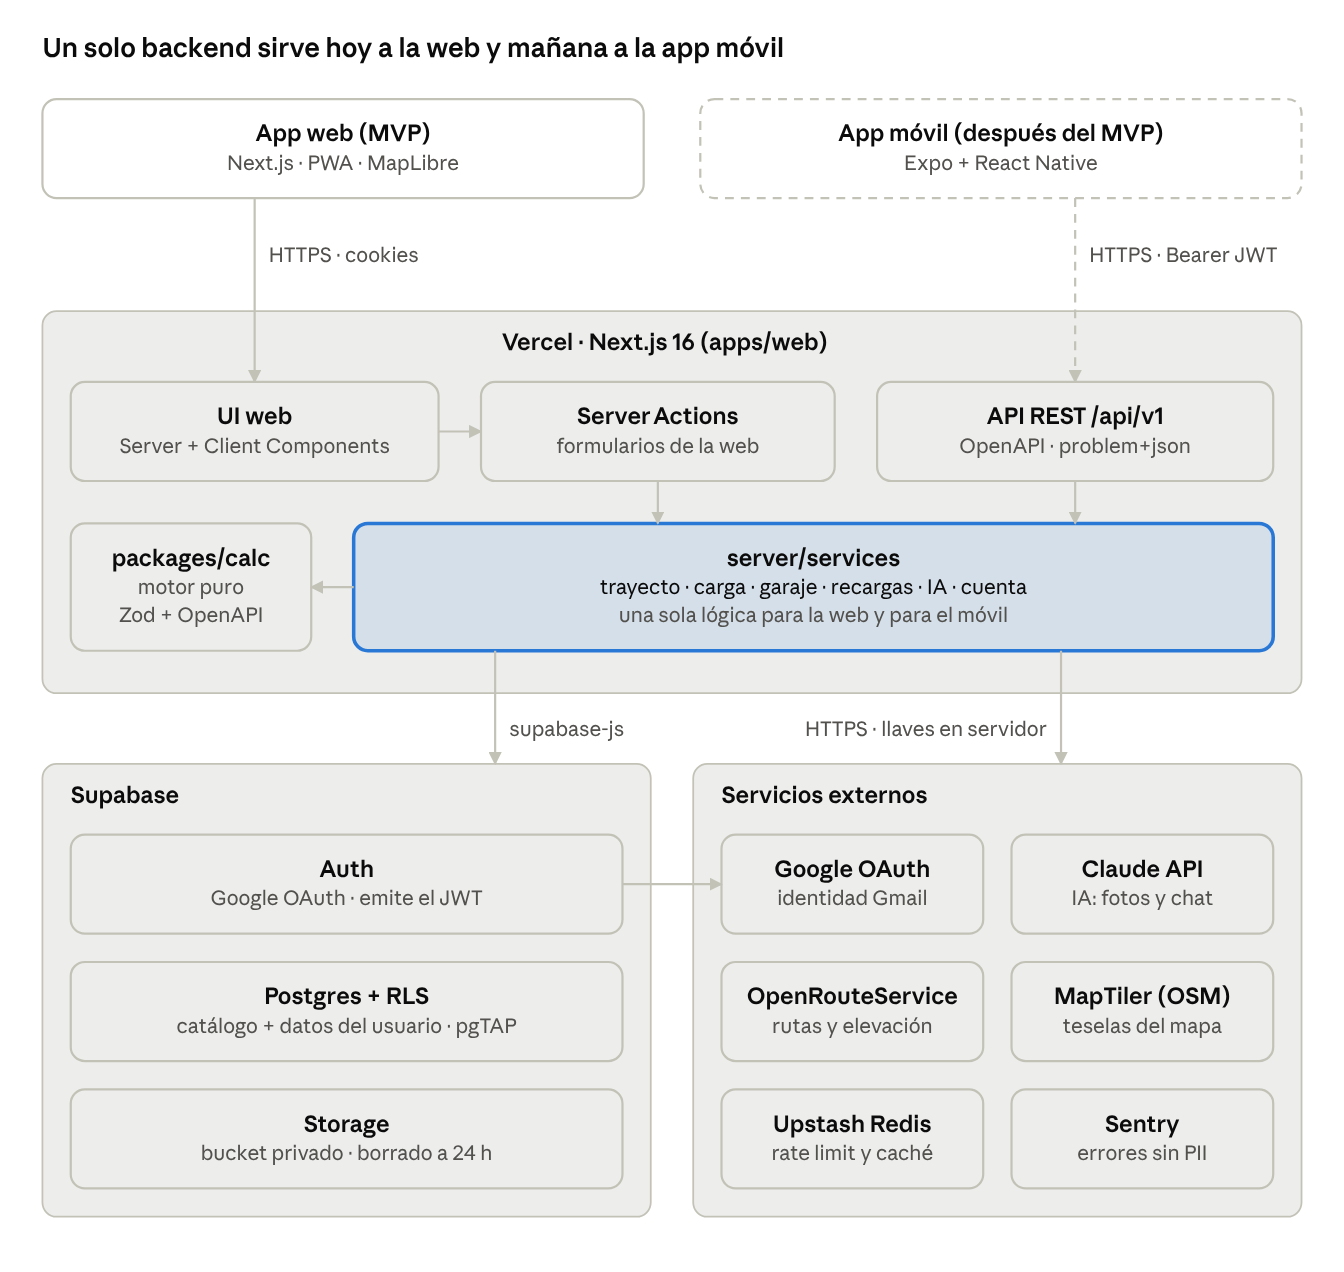
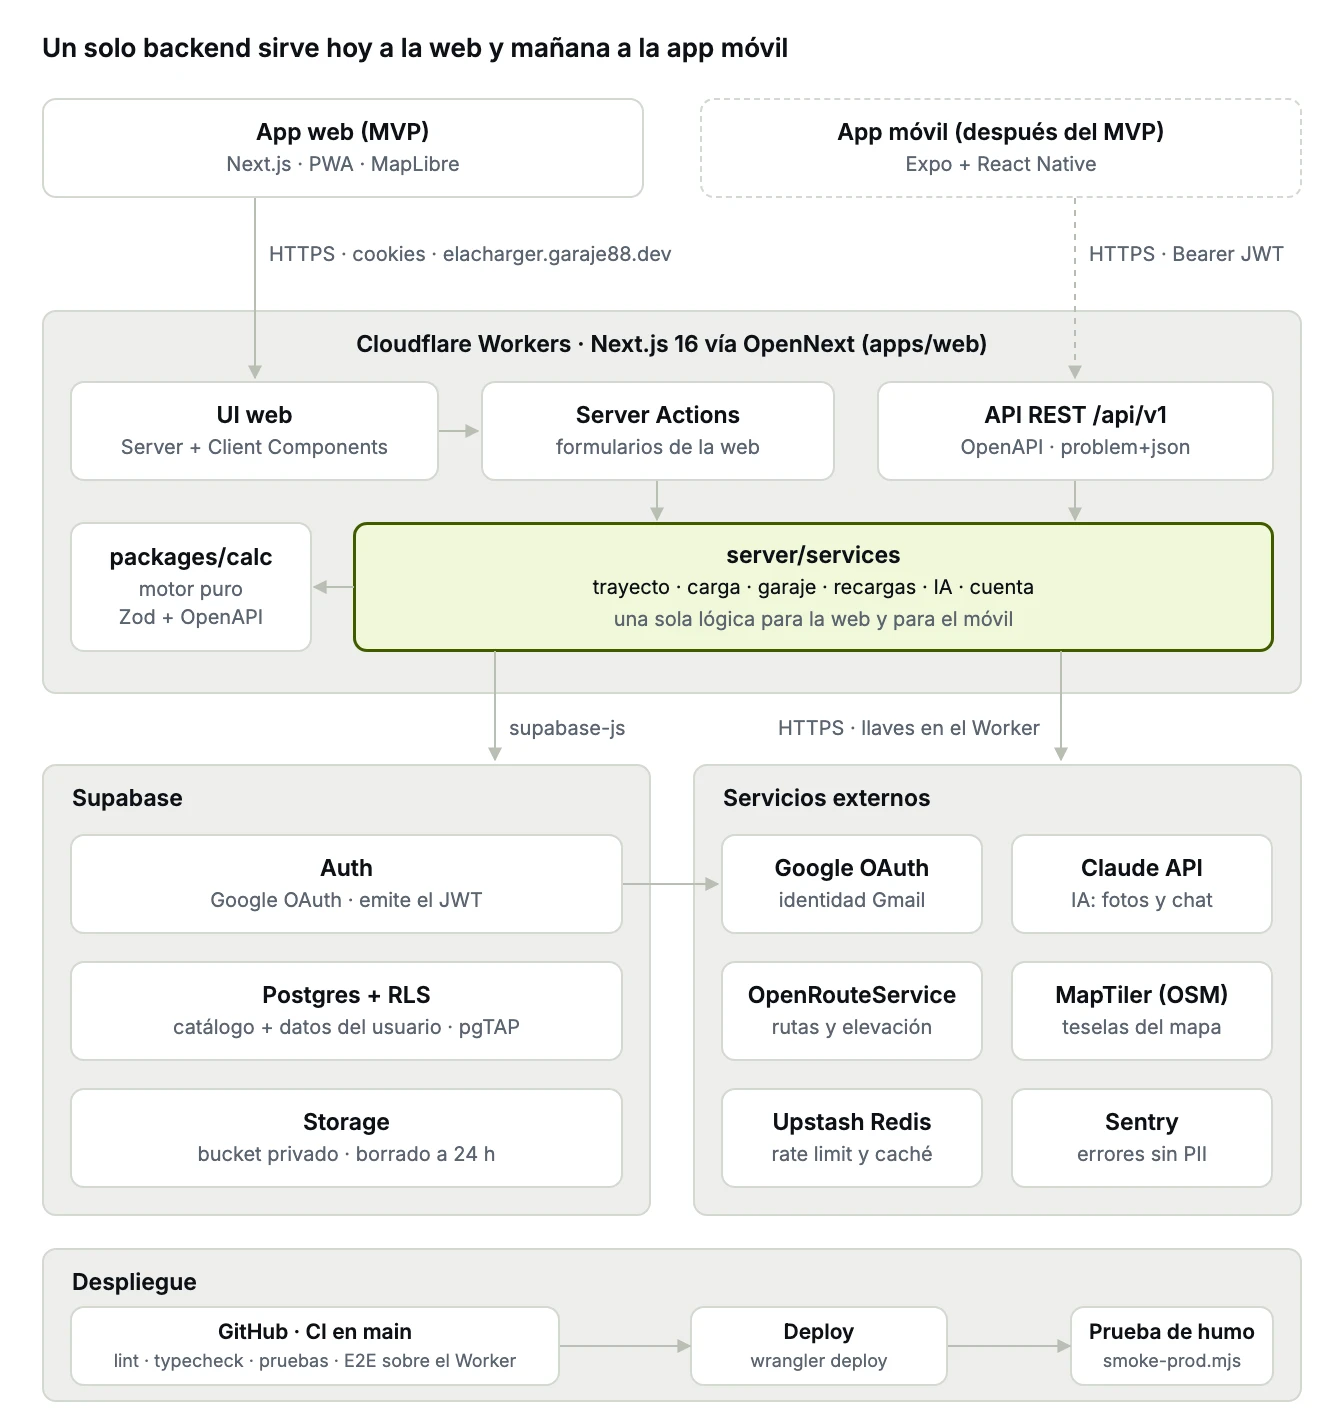
docs: architecture diagram on Cloudflare Workers with the deploy flow (#29)
The diagram showed Vercel. It now shows Cloudflare Workers via OpenNext,
the custom domain and a deploy strip (CI on main, wrangler deploy, smoke
test). The HTML source sits next to the image so it can be edited and
re-rendered. PLAN.md's CI/CD row no longer mentions Workers Builds.

diff --git a/docs/diagrams/arquitectura.html b/docs/diagrams/arquitectura.html
@@ -1,0 +1,126 @@
+<!doctype html>
+<!-- Fuente de docs/diagrams/arquitectura.webp. Para regenerarlo: abrir en Chromium a 1344 × 1420 px, capturar y convertir a WebP. -->
+<html lang="es">
+<head>
+<meta charset="utf-8">
+<link href="https://fonts.googleapis.com/css2?family=Inter:wght@400;500;600&display=swap" rel="stylesheet">
+<style>
+  * { box-sizing: border-box; margin: 0; }
+  body { width: 1344px; background: #fff; font-family: Inter, system-ui, sans-serif; color: #0E1116; }
+  .canvas { position: relative; width: 1344px; height: 1420px; }
+  .box { position: absolute; border: 2px solid #D3D8D0; border-radius: 14px; background: #fff;
+         display: flex; flex-direction: column; align-items: center; justify-content: center; text-align: center; }
+  .group { position: absolute; border: 2px solid #D3D8D0; border-radius: 14px; background: #EEEEEC; }
+  .group > .label { position: absolute; top: 18px; left: 28px; font-size: 23px; font-weight: 600; }
+  .group.center > .label { left: 0; right: 0; text-align: center; }
+  .t { font-size: 23px; font-weight: 600; }
+  .s { font-size: 20px; color: #5B6470; margin-top: 4px; line-height: 1.4; }
+  .dashed { border-style: dashed; }
+  .hl { background: #F1F8D9; border: 3px solid #3F5A00; }
+  .edge { position: absolute; font-size: 20px; color: #5B6470; }
+  svg.lines { position: absolute; inset: 0; z-index: 2; pointer-events: none; }
+  h1 { position: absolute; top: 32px; left: 42px; font-size: 26px; font-weight: 600; }
+</style>
+</head>
+<body>
+<div class="canvas">
+  <h1>Un solo backend sirve hoy a la web y mañana a la app móvil</h1>
+
+
+  <div class="box" style="left:42px;top:98px;width:602px;height:100px">
+    <div class="t">App web (MVP)</div><div class="s">Next.js · PWA · MapLibre</div>
+  </div>
+  <div class="box dashed" style="left:700px;top:98px;width:602px;height:100px">
+    <div class="t">App móvil (después del MVP)</div><div class="s">Expo + React Native</div>
+  </div>
+  <div class="edge" style="left:269px;top:242px">HTTPS · cookies · elacharger.garaje88.dev</div>
+  <div class="edge" style="left:1089px;top:242px">HTTPS · Bearer JWT</div>
+
+  <div class="group center" style="left:42px;top:310px;width:1260px;height:384px">
+    <div class="label">Cloudflare Workers · Next.js 16 vía OpenNext (apps/web)</div>
+  </div>
+  <div class="box" style="left:70px;top:381px;width:369px;height:100px">
+    <div class="t">UI web</div><div class="s">Server + Client Components</div>
+  </div>
+  <div class="box" style="left:481px;top:381px;width:354px;height:100px">
+    <div class="t">Server Actions</div><div class="s">formularios de la web</div>
+  </div>
+  <div class="box" style="left:877px;top:381px;width:397px;height:100px">
+    <div class="t">API REST /api/v1</div><div class="s">OpenAPI · problem+json</div>
+  </div>
+  <div class="box" style="left:70px;top:522px;width:242px;height:130px">
+    <div class="t">packages/calc</div><div class="s">motor puro<br>Zod + OpenAPI</div>
+  </div>
+  <div class="box hl" style="left:353px;top:522px;width:921px;height:130px">
+    <div class="t">server/services</div>
+    <div class="s" style="color:#0E1116">trayecto · carga · garaje · recargas · IA · cuenta</div>
+    <div class="s">una sola lógica para la web y para el móvil</div>
+  </div>
+
+  <div class="edge" style="left:509px;top:716px">supabase-js</div>
+  <div class="edge" style="left:778px;top:716px">HTTPS · llaves en el Worker</div>
+
+  <div class="group" style="left:42px;top:764px;width:609px;height:452px"><div class="label">Supabase</div></div>
+  <div class="box" style="left:70px;top:834px;width:553px;height:100px">
+    <div class="t">Auth</div><div class="s">Google OAuth · emite el JWT</div>
+  </div>
+  <div class="box" style="left:70px;top:961px;width:553px;height:100px">
+    <div class="t">Postgres + RLS</div><div class="s">catálogo + datos del usuario · pgTAP</div>
+  </div>
+  <div class="box" style="left:70px;top:1088px;width:553px;height:100px">
+    <div class="t">Storage</div><div class="s">bucket privado · borrado a 24 h</div>
+  </div>
+
+  <div class="group" style="left:693px;top:764px;width:609px;height:452px"><div class="label">Servicios externos</div></div>
+  <div class="box" style="left:721px;top:834px;width:262px;height:100px">
+    <div class="t">Google OAuth</div><div class="s">identidad Gmail</div>
+  </div>
+  <div class="box" style="left:1011px;top:834px;width:262px;height:100px">
+    <div class="t">Claude API</div><div class="s">IA: fotos y chat</div>
+  </div>
+  <div class="box" style="left:721px;top:961px;width:262px;height:100px">
+    <div class="t">OpenRouteService</div><div class="s">rutas y elevación</div>
+  </div>
+  <div class="box" style="left:1011px;top:961px;width:262px;height:100px">
+    <div class="t">MapTiler (OSM)</div><div class="s">teselas del mapa</div>
+  </div>
+  <div class="box" style="left:721px;top:1088px;width:262px;height:100px">
+    <div class="t">Upstash Redis</div><div class="s">rate limit y caché</div>
+  </div>
+  <div class="box" style="left:1011px;top:1088px;width:262px;height:100px">
+    <div class="t">Sentry</div><div class="s">errores sin PII</div>
+  </div>
+
+  <div class="group" style="left:42px;top:1248px;width:1260px;height:154px"><div class="label">Despliegue</div></div>
+  <div class="box" style="left:70px;top:1306px;width:490px;height:80px">
+    <div class="t" style="font-size:21px">GitHub · CI en main</div><div class="s" style="font-size:18px">lint · typecheck · pruebas · E2E sobre el Worker</div>
+  </div>
+  <div class="box" style="left:690px;top:1306px;width:258px;height:80px">
+    <div class="t" style="font-size:21px">Deploy</div><div class="s" style="font-size:18px">wrangler deploy</div>
+  </div>
+  <div class="box" style="left:1070px;top:1306px;width:204px;height:80px">
+    <div class="t" style="font-size:21px">Prueba de humo</div><div class="s" style="font-size:18px">smoke-prod.mjs</div>
+  </div>
+  <svg class="lines" width="1344" height="1420" aria-hidden="true">
+    <defs>
+      <marker id="a" viewBox="0 0 10 10" refX="9" refY="5" markerWidth="7" markerHeight="7" orient="auto">
+        <path d="M0 0L10 5L0 10z" fill="#B9BEB4"/>
+      </marker>
+    </defs>
+    <g stroke="#B9BEB4" stroke-width="2" fill="none">
+      <path d="M255 198V378" marker-end="url(#a)"/>
+      <path d="M1075 198V378" stroke-dasharray="6 6" marker-end="url(#a)"/>
+      <path d="M439 431H478" marker-end="url(#a)"/>
+      <path d="M657 481V520" marker-end="url(#a)"/>
+      <path d="M1075 481V520" marker-end="url(#a)"/>
+      <path d="M354 587H314" marker-end="url(#a)"/>
+      <path d="M495 651V760" marker-end="url(#a)"/>
+      <path d="M1061 651V760" marker-end="url(#a)"/>
+      <path d="M623 884H718" marker-end="url(#a)"/>
+      <path d="M560 1346H690" marker-end="url(#a)"/>
+      <path d="M948 1346H1070" marker-end="url(#a)"/>
+    </g>
+  </svg>
+</div>
+</body>
+</html>

diff --git a/docs/PLAN.md b/docs/PLAN.md
@@ -42,7 +42,7 @@ Next.js 16 (App Router) con TypeScript estricto, Tailwind CSS v4 y Supabase (Pos
 | Rate limiting | Upstash Redis + `@upstash/ratelimit` | Protege la cuota de ORS |
 | Pruebas | Vitest (unitarias del motor de cálculo), Playwright (E2E), Testing Library | El cálculo es el núcleo: cobertura ≥ 90 % |
 | Calidad | ESLint (next + typescript-eslint), Prettier, Husky + lint-staged, commitlint | Consistencia y commits convencionales |
-| CI/CD | GitHub Actions (lint, typecheck, test, build, E2E sobre el Worker) + Cloudflare Workers Builds | Cada PR probado en el runtime que se despliega |
+| CI/CD | GitHub Actions (lint, typecheck, test, build, E2E sobre el Worker); deploy con `wrangler` desde `deploy.yml` tras la CI en `main` | Cada PR probado en el runtime que se despliega; el deploy solo sale con la CI en verde |
 | Hosting | Cloudflare Workers con el adaptador OpenNext (`@opennextjs/cloudflare`) | Decisión del proyecto (nov-2026); ver `docs/DEPLOY.md` |
 | Observabilidad | Sentry + Workers Observability | Errores y registros |
 
